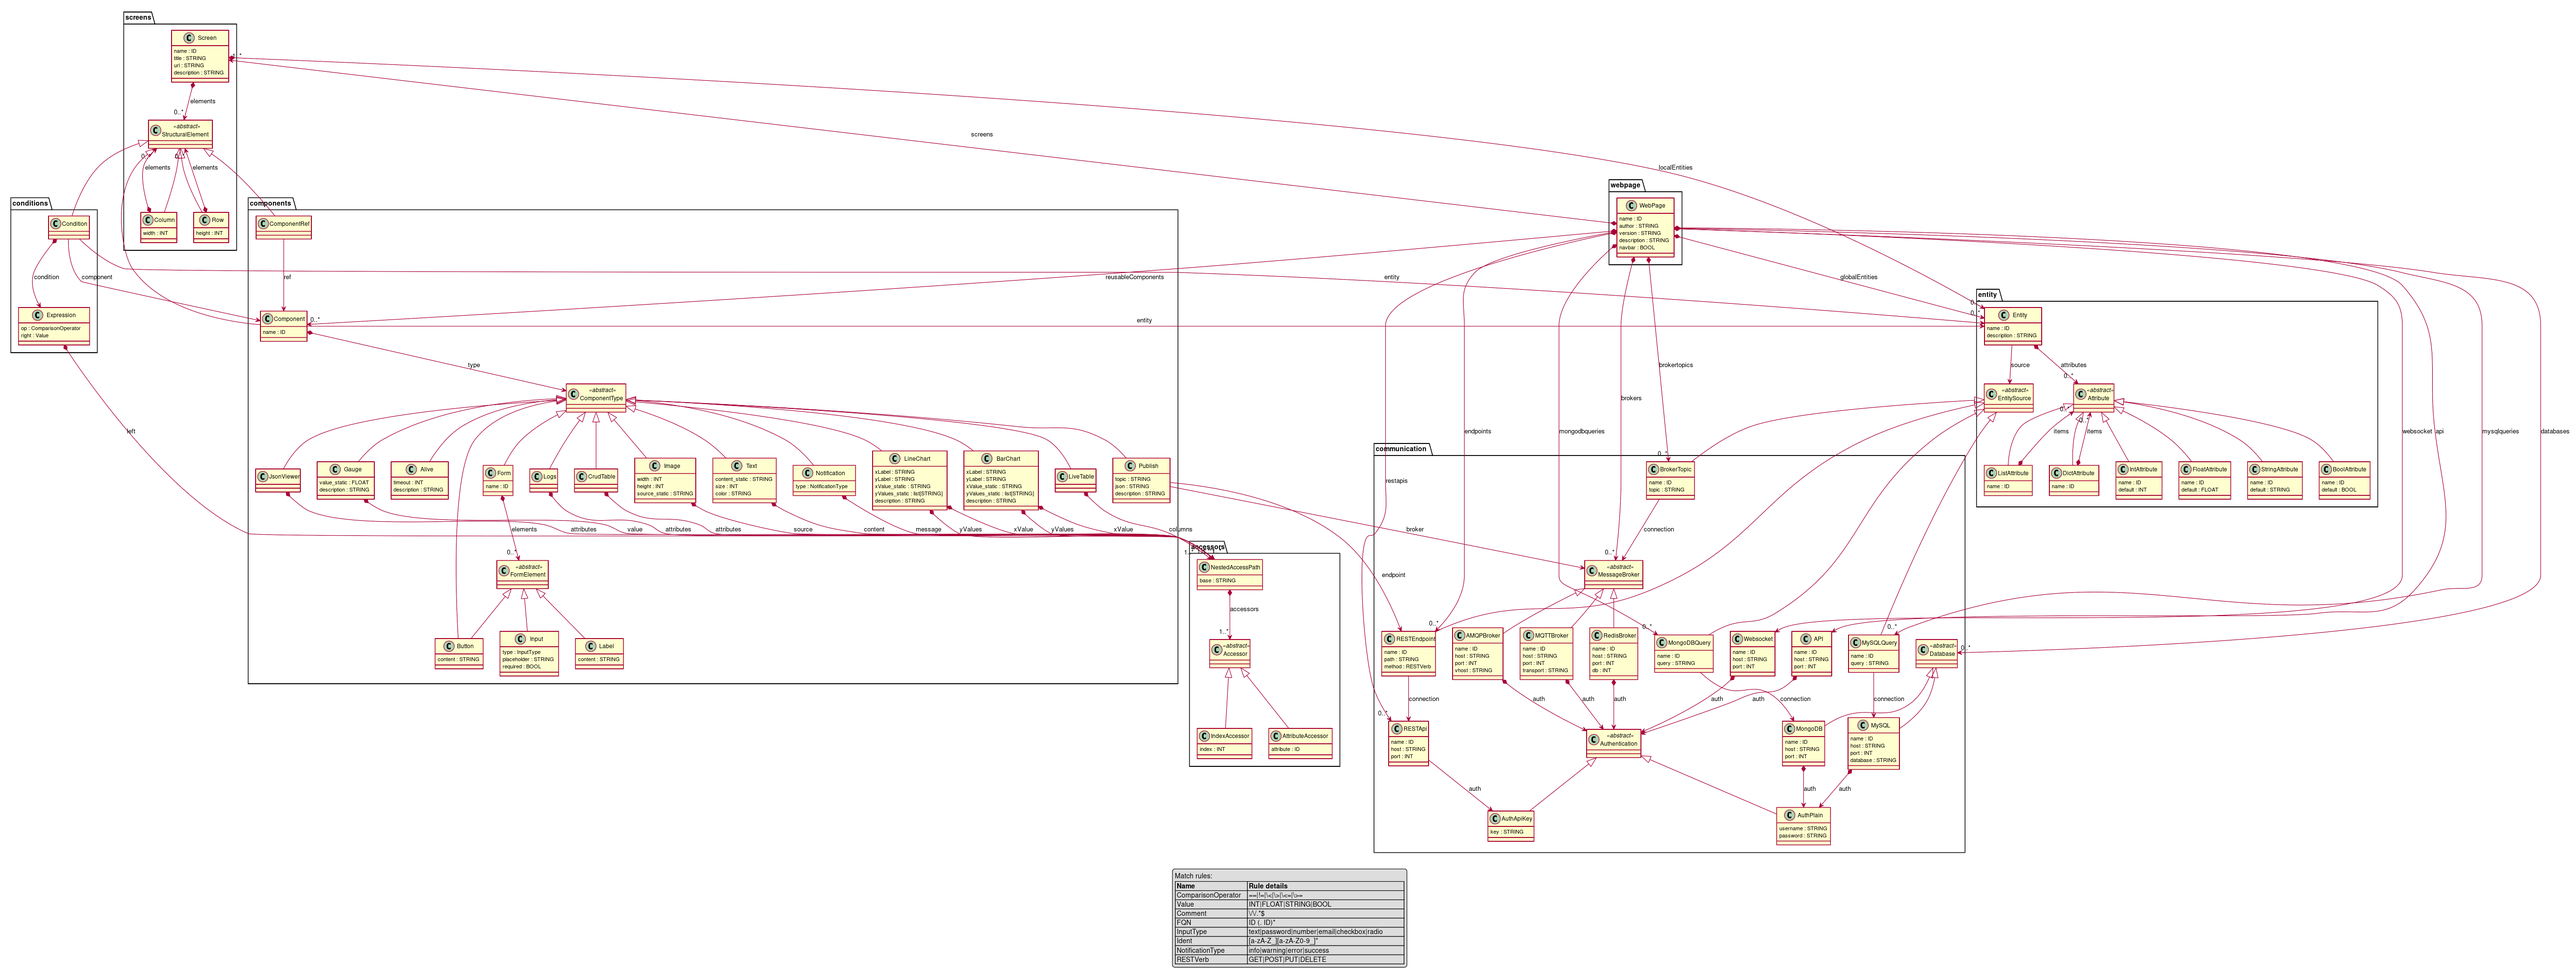
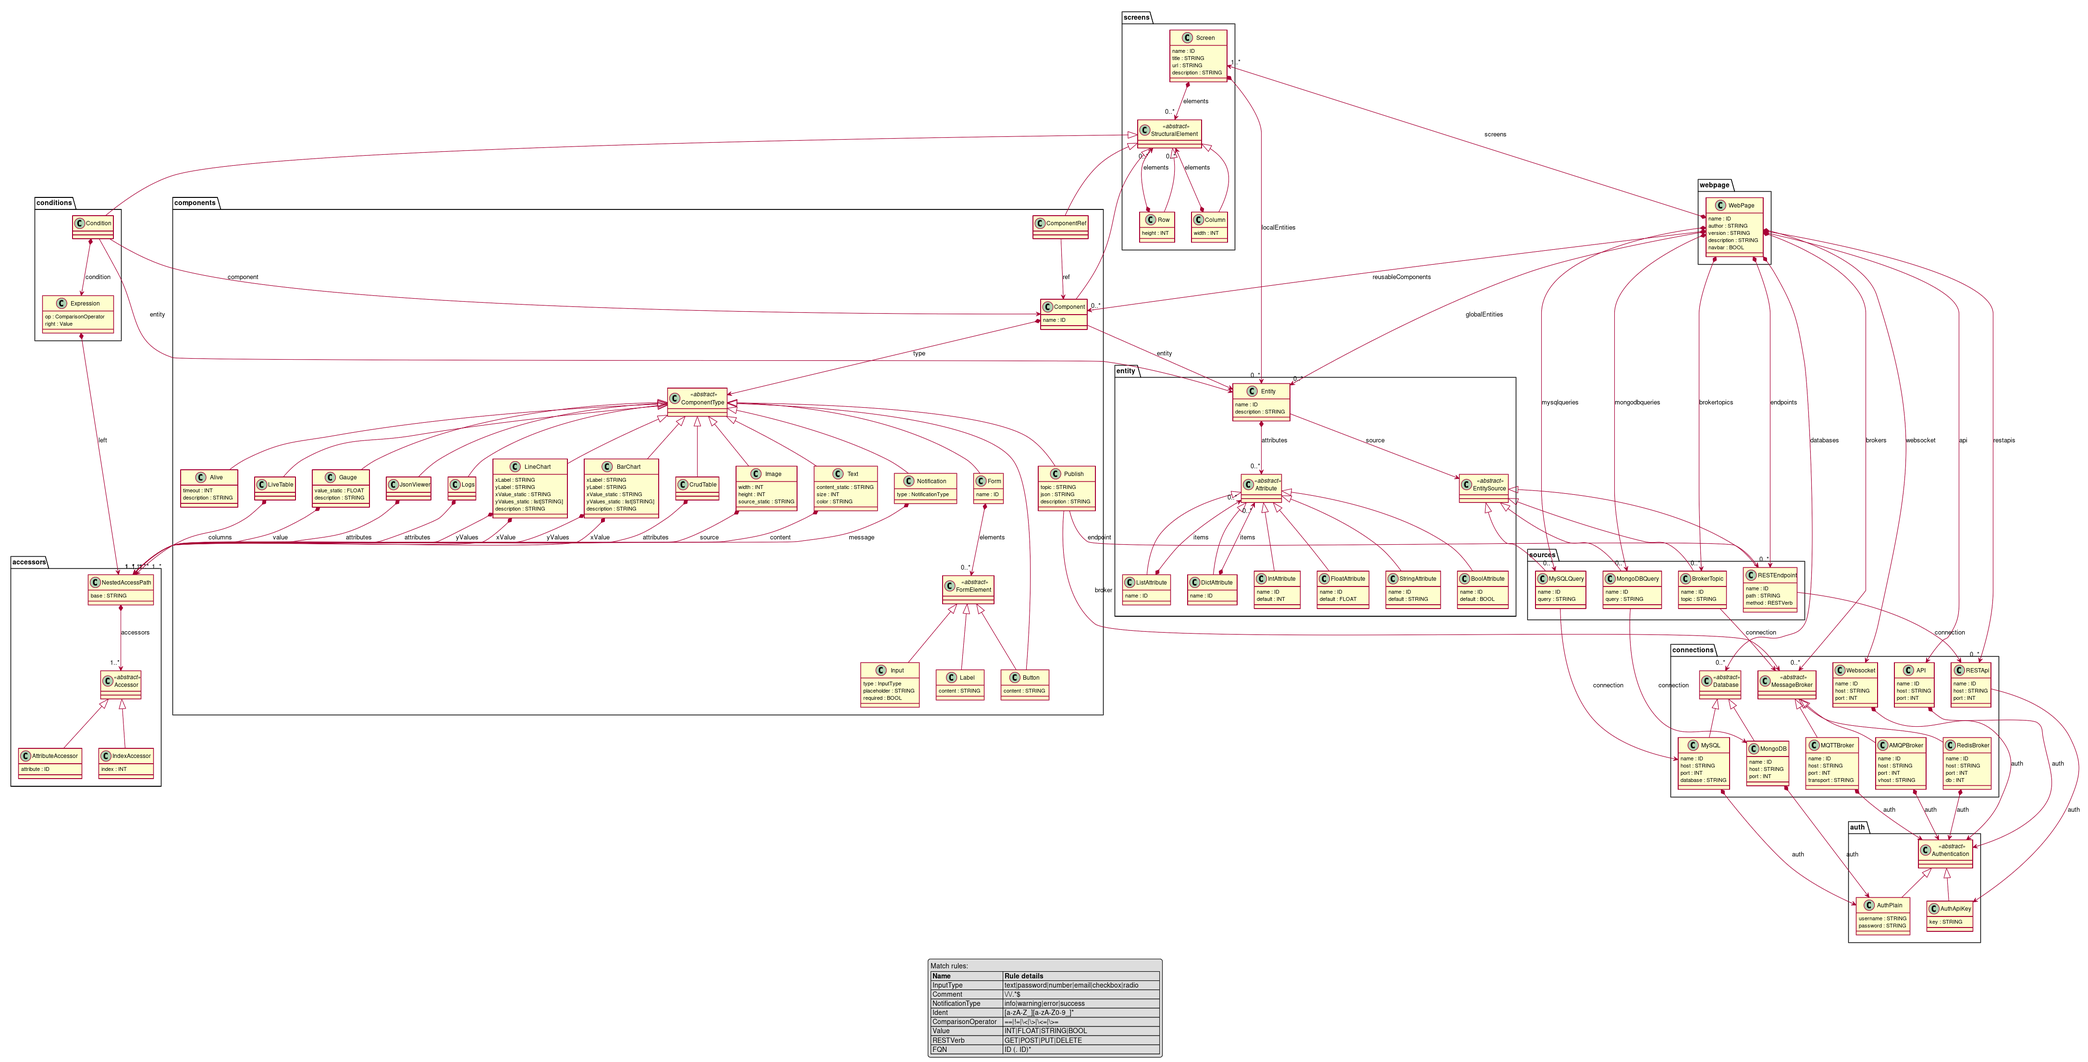
SPlit communication into multiple files

diff --git a/web_dsl/generate.py b/web_dsl/generate.py
@@ -82,9 +82,9 @@ def generate(model_path, gen_path):
     for screen in model.screens:
         print(f"Generating screen: {screen.name}")
         # Get all components
-        all_components = get_children_of_type("Condition", screen)
-        for component in all_components:
-            print(component.__class__.__name__)
+        # all_components = get_children_of_type("Condition", screen)
+        # for component in all_components:
+        #     print(component.__class__.__name__)
         try:
             html_content = screen_template.render(screen=screen)
         except TemplateError as e:
